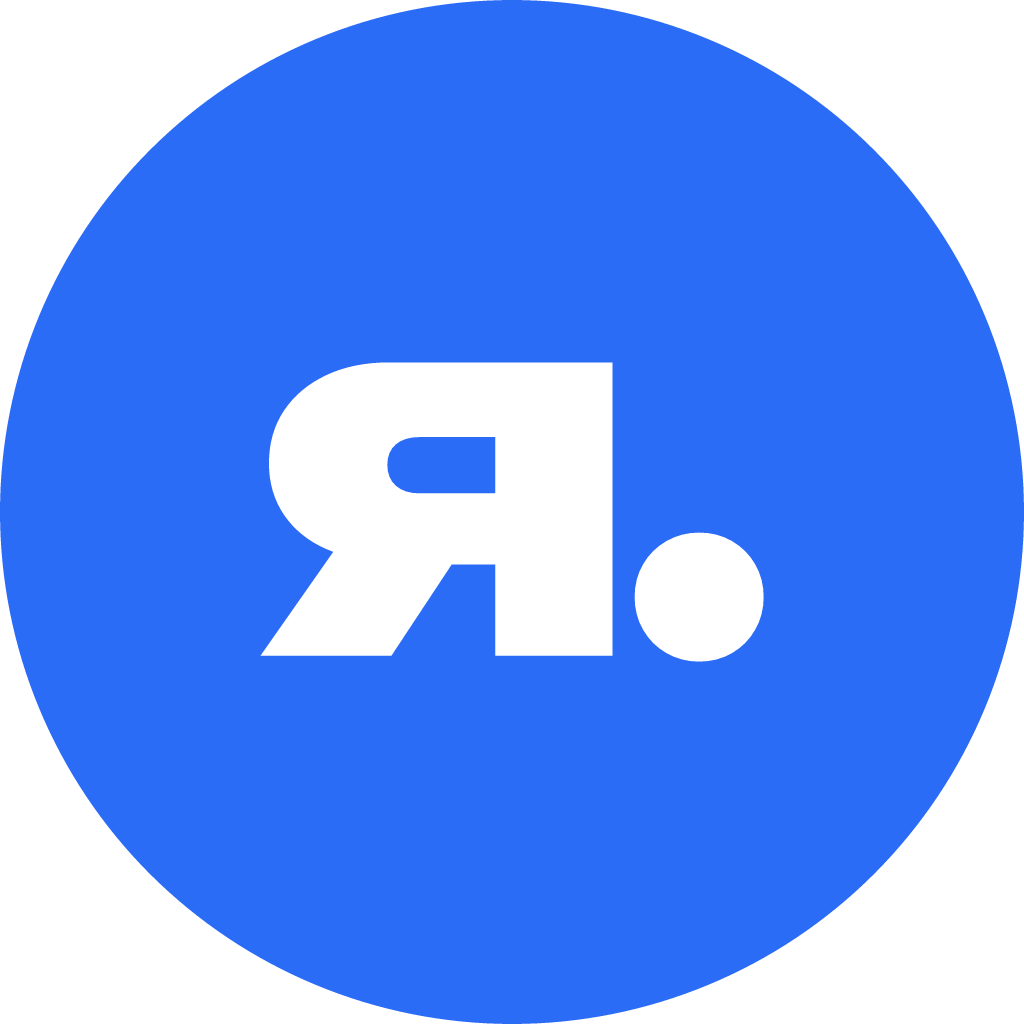
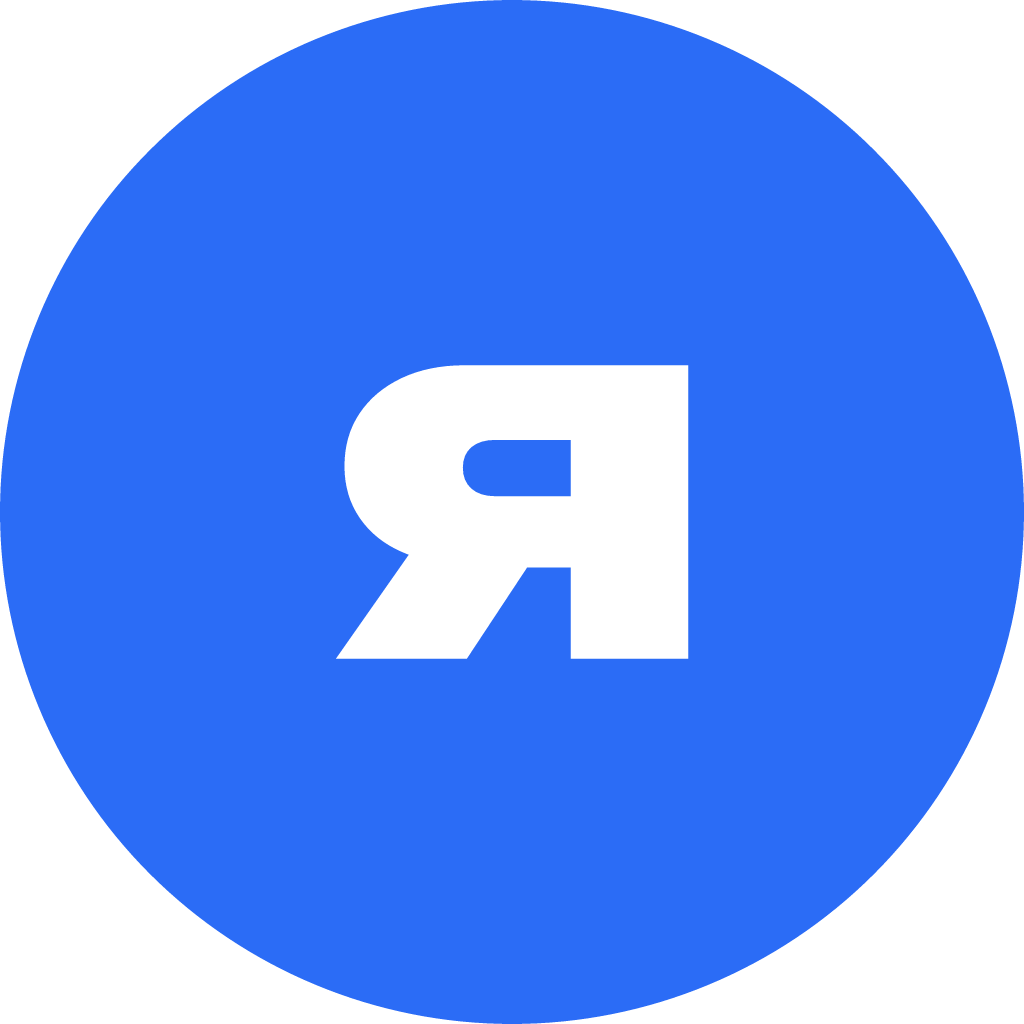
feat: brand: "games. got it." and the settled monograms
ясно is a plain "got it", not a sarcastic "obviously", so the tagline says so.

The circle monogram drops its dot, since the circle is the dot. The square
comes dark on light and reversed, each with the blue dot, and the dark on
light square is the touch icon.

Changed region(s): [[0.25, 0.3438, 0.75, 0.6562], [0.375, 0.4062, 0.5625, 0.5]]

diff --git a/public/index.html b/public/index.html
@@ -4,7 +4,7 @@
 <meta charset="utf-8">
 <meta name="viewport" content="width=device-width, initial-scale=1">
 <title>Yasno Games</title>
-<meta name="description" content="games. obviously. An independent game studio.">
+<meta name="description" content="games. got it. An independent game studio.">
 <link rel="icon" href="/favicon.svg" type="image/svg+xml">
 <link rel="apple-touch-icon" href="/apple-touch-icon.png">
 <meta name="theme-color" content="#F5F5F2" media="(prefers-color-scheme: light)">
@@ -12,7 +12,7 @@
 <meta property="og:type" content="website">
 <meta property="og:site_name" content="Yasno Games">
 <meta property="og:title" content="Yasno Games">
-<meta property="og:description" content="games. obviously.">
+<meta property="og:description" content="games. got it.">
 <meta property="og:url" content="https://yasno.games/">
 <meta property="og:image" content="https://yasno.games/og.png">
 <meta property="og:image:width" content="1200">
@@ -95,7 +95,7 @@ footer {
       <img src="/brand/yasno-wordmark.svg" alt="Yasno" width="560" height="108">
     </picture>
   </h1>
-  <p class="tagline">games. obviously.</p>
+  <p class="tagline">games. got it.</p>
   <p class="contact"><a href="mailto:hello@yasno.games">hello@yasno.games</a></p>
   <nav aria-label="Yasno Games elsewhere">
     <ul>

diff --git a/tools/brand.py b/tools/brand.py
@@ -119,19 +119,20 @@ def wordmark(letters, dot):
     return document(x1 - x0, y1 - y0, run.svg(0, 0), view=(x0, y0, x1 - x0, y1 - y0))
 
 
-def monogram(ground, letter, dot, round_):
-    """я. on a 1000 square, centred on its ink at half the frame's height in type."""
-    run = Run(UNBOUNDED_HEAVY, "я.", 500, -0.04, [letter, dot])
+def monogram(ground, letter, dot=None, square=False):
+    """я in a circle or a square 1000 across, centred on its ink at half the frame's height
+    in type. A `dot` sets я. instead; the circle needs none, being the dot itself."""
+    run = Run(UNBOUNDED_HEAVY, "я." if dot else "я", 500, -0.04, [letter, dot])
     x0, y0, x1, y1 = run.bounds
-    shape = (f'<circle cx="500" cy="500" r="500" fill="{ground}"/>' if round_
-             else f'<rect width="1000" height="1000" fill="{ground}"/>')
+    shape = (f'<rect width="1000" height="1000" fill="{ground}"/>' if square
+             else f'<circle cx="500" cy="500" r="500" fill="{ground}"/>')
     return document(1000, 1000, shape + run.svg(500 - (x0 + x1) / 2, 500 - (y0 + y1) / 2))
 
 
 def preview():
     """The link preview: the wordmark over the tagline on paper, 1200 x 630."""
     mark = Run(UNBOUNDED_BOLD, "yasno.", 1000, -0.03, [INK] * 5 + [ACCENT])
-    line = Run(MONO, "games. obviously.", 180, 0.02, [MUTED])
+    line = Run(MONO, "games. got it.", 180, 0.02, [MUTED])
     body, bounds = stack([mark, line], 190)
     return fitted(1200, 630, body, bounds, 0.62, PAPER)
 
@@ -149,15 +150,17 @@ def main():
     files = {
         BRAND / "yasno-wordmark.svg": wordmark(INK, ACCENT),
         BRAND / "yasno-wordmark-reversed.svg": wordmark(PAPER, ACCENT_ON_DARK),
-        BRAND / "yasno-monogram.svg": monogram(ACCENT, WHITE, WHITE, round_=True),
-        BRAND / "yasno-monogram-square.svg": monogram(ACCENT, WHITE, WHITE, round_=False),
-        PUBLIC / "favicon.svg": monogram(ACCENT, WHITE, WHITE, round_=True),
+        BRAND / "yasno-monogram.svg": monogram(ACCENT, WHITE),
+        BRAND / "yasno-monogram-square.svg": monogram(PAPER, INK, ACCENT, square=True),
+        BRAND / "yasno-monogram-square-reversed.svg": monogram(INK, PAPER, ACCENT_ON_DARK, square=True),
+        PUBLIC / "favicon.svg": monogram(ACCENT, WHITE),
     }
     for path, svg in files.items():
         write(path, svg)
 
-    render(BRAND / "yasno-monogram.png", files[BRAND / "yasno-monogram.svg"], 1024)
-    render(BRAND / "yasno-monogram-square.png", files[BRAND / "yasno-monogram-square.svg"], 1024)
+    for name in ("yasno-monogram", "yasno-monogram-square", "yasno-monogram-square-reversed"):
+        render(BRAND / f"{name}.png", files[BRAND / f"{name}.svg"], 1024)
+    # iOS cuts its own corners, so the touch icon is a square edge to edge.
     render(PUBLIC / "apple-touch-icon.png", files[BRAND / "yasno-monogram-square.svg"], 180)
     (PUBLIC / "og.png").write_bytes(bytes(resvg_py.svg_to_bytes(svg_string=preview())))
 
